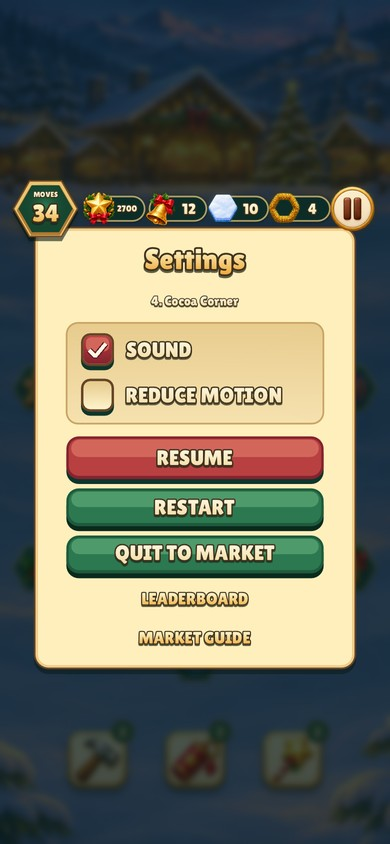
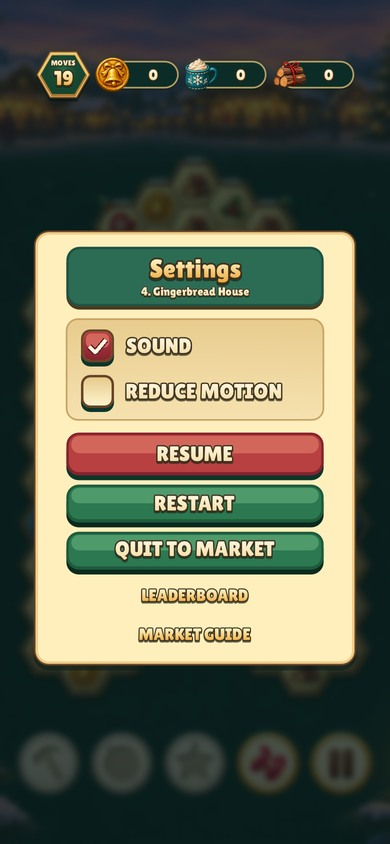
Use a shared measured header in every match-3 popup

diff --git a/games/christmas-market/README.md b/games/christmas-market/README.md
@@ -161,7 +161,7 @@ Board artwork fills its registered hex slots. In dialogue, portraits face each o
 The board enters after dialogue with a cell ripple, falling treats, blocker landings and a final light sweep. Tap to skip; reduced motion uses a short fade. See [the engine timeline](../../docs/ENGINE.md#board-entrance).
 During refills, each treat gives a small bounce when it comes to rest in its slot. Reduce Motion suppresses the bounce.
 
-Popups use measured vertical forms. Results display three equal columns for Gold, Food and Supplies, with the next step and Collect below. In reels the result sections still settle on one timeline, which the first tap skips. See [docs/MOTION.md](../../docs/MOTION.md) and the [dialog motion review](docs/review/dialog-motion/README.md).
+Popups use measured vertical forms. Every popup uses the shared title panel. Settings shows the current board as its subtitle during play. Results display three equal columns for Gold, Food and Supplies, with the next step and Collect below. In reels the result sections still settle on one timeline, which the first tap skips. See [docs/MOTION.md](../../docs/MOTION.md) and the [dialog motion review](docs/review/dialog-motion/README.md).
 
 ![The result dialog arriving](docs/screenshots/reward-entrance-reel.gif)
 

diff --git a/docs/UI_ENGINE.md b/docs/UI_ENGINE.md
@@ -339,7 +339,7 @@ by the form test and Relic Rush's 390 x 844 expedition-browser input smoke test.
 The shared match-3 popup renderer also requires a column-root form. It owns
 measurement, centering, hit testing and dismissal for Results, Settings, the
 Guide, restart confirmation, building details, the out-of-moves prompt, region
-unlock and finale. Games supply data or a vertical form. Results use three equal
+unlock and finale. Every match-3 popup starts with `match3.popup_header(title, subtitle)`, including the sheets, choices and leaderboard. A nonblank title is required. An absent, empty or whitespace-only subtitle removes its row and gap. Use `match3.set_popup_header` when the context changes on a reused form. Results use three equal
 columns in one row. Optional content participates in the measured stack only
 when visible, so the Collect button follows the last row. The building shop,
 expeditions, story choice and leaderboard use the same root contract through

diff --git a/games/relic-rush/README.md b/games/relic-rush/README.md
@@ -119,7 +119,7 @@ and [shared UI API](../../docs/UI_ENGINE.md).
 
 ## Result screens and typography
 
-The result card fits its contents. Score, a row of three resource totals, an available restoration and Collect stack vertically. If no restoration is available, Collect follows the resources directly. See the [results review](docs/review/chapter-one/README.md).
+The result card fits its contents. Every popup uses the shared title panel. Settings shows the current board as its subtitle during play. Score, a row of three resource totals, an available restoration and Collect stack vertically. If no restoration is available, Collect follows the resources directly. See the [results review](docs/review/chapter-one/README.md).
 
 Text is aligned by its visible ink bounds (the engine's `text_in`), shared by buttons and counters, and paragraphs wrap into balanced lines (`text_box`).
 
